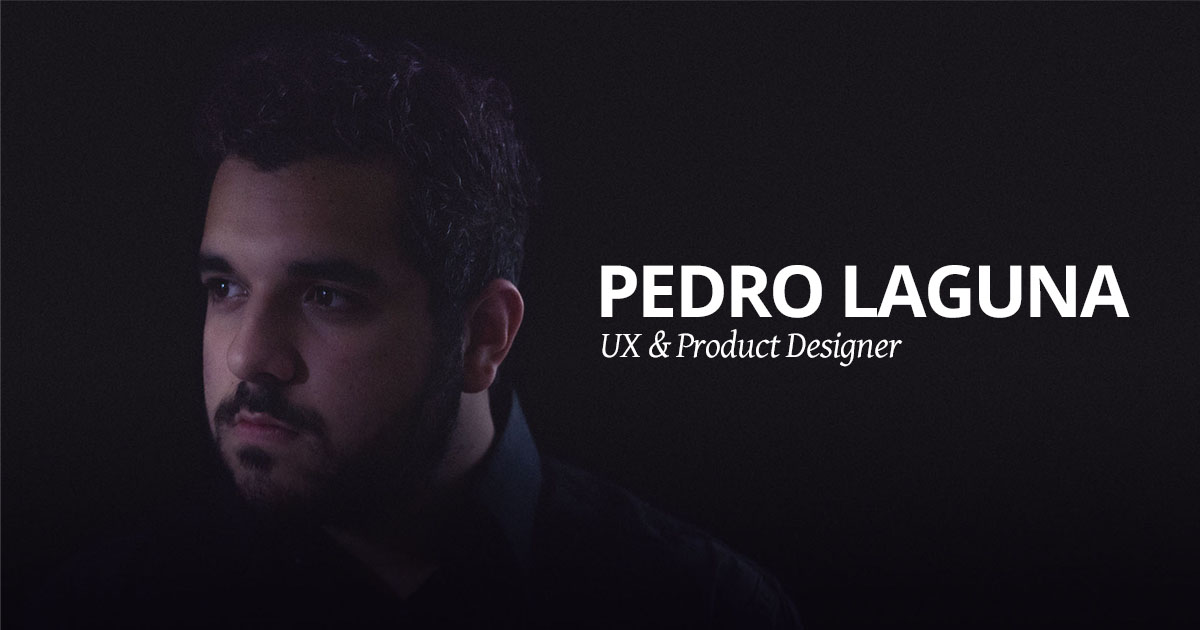
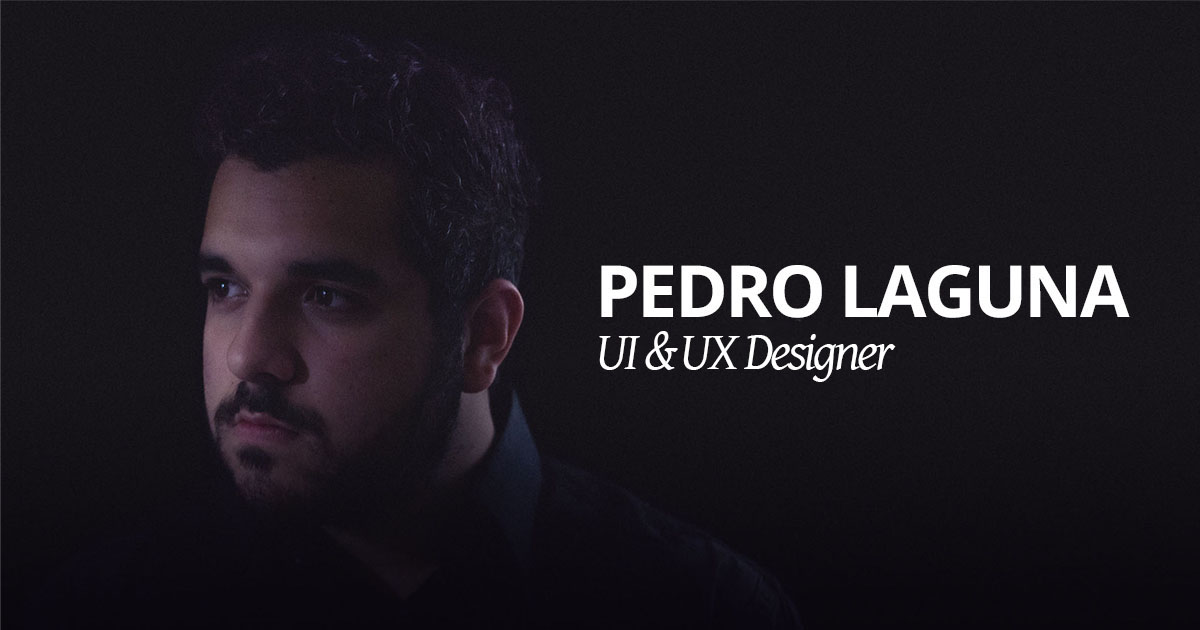
Correção do meu Título

Changed region(s): [[0.4933, 0.5127, 0.7708, 0.6032]]

diff --git a/index.html b/index.html
@@ -42,7 +42,7 @@
     <meta property="og:url"           content="http://pdrlaguna.com/" />
     <meta property="og:type"          content="website" />
     <meta property="og:title"         content="Pedro Laguna - Portfolio" />
-    <meta property="og:description"   content="UX & Product Designer" />
+    <meta property="og:description"   content="UI & UX Designer" />
     <meta property="og:image"         content="http://pdrlaguna.com/facebookThumb.jpg" />
 
 
